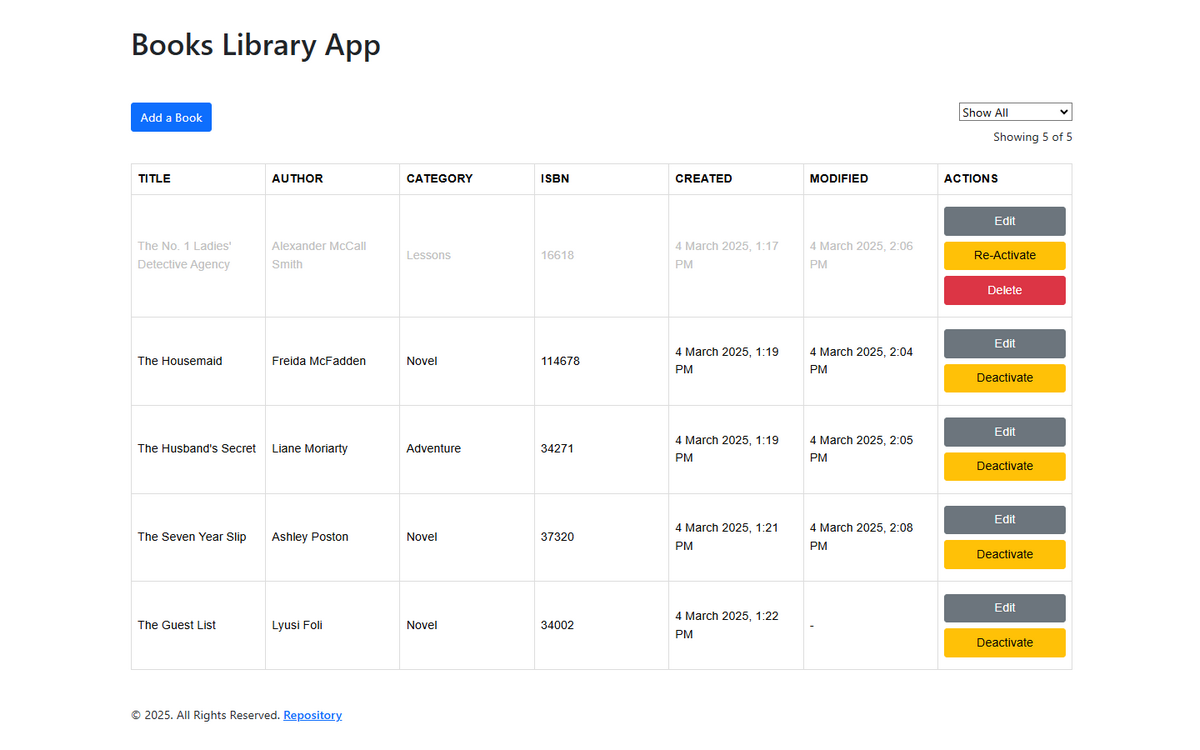
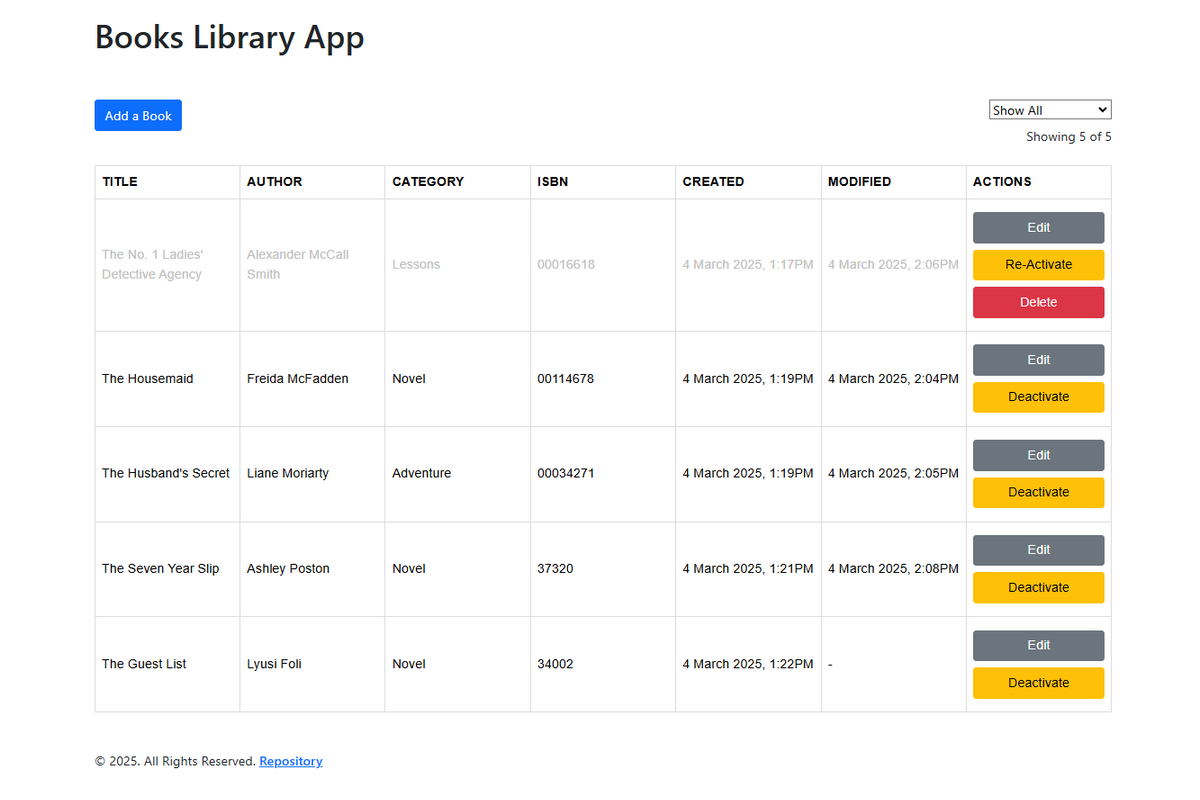
Removed space between time and AM-PM

diff --git a/src/pages/EditPage.tsx b/src/pages/EditPage.tsx
@@ -52,7 +52,7 @@ const EditPage = () => {
         const date = new Date();
 
         const month = date.toLocaleString('default', { month: 'long' }),
-            time = date.toLocaleString('en-US', { hour: 'numeric', minute: 'numeric', hour12: true }),
+            time = date.toLocaleString('en-US', { hour: 'numeric', minute: 'numeric', hour12: true }).replace(/\s/g, ""),
             formattedDate = `${date.getDate()} ${month} ${date.getFullYear()}, ${time}`;
 
         const lastUpdated = singleBook.created ? formattedDate : '-';
